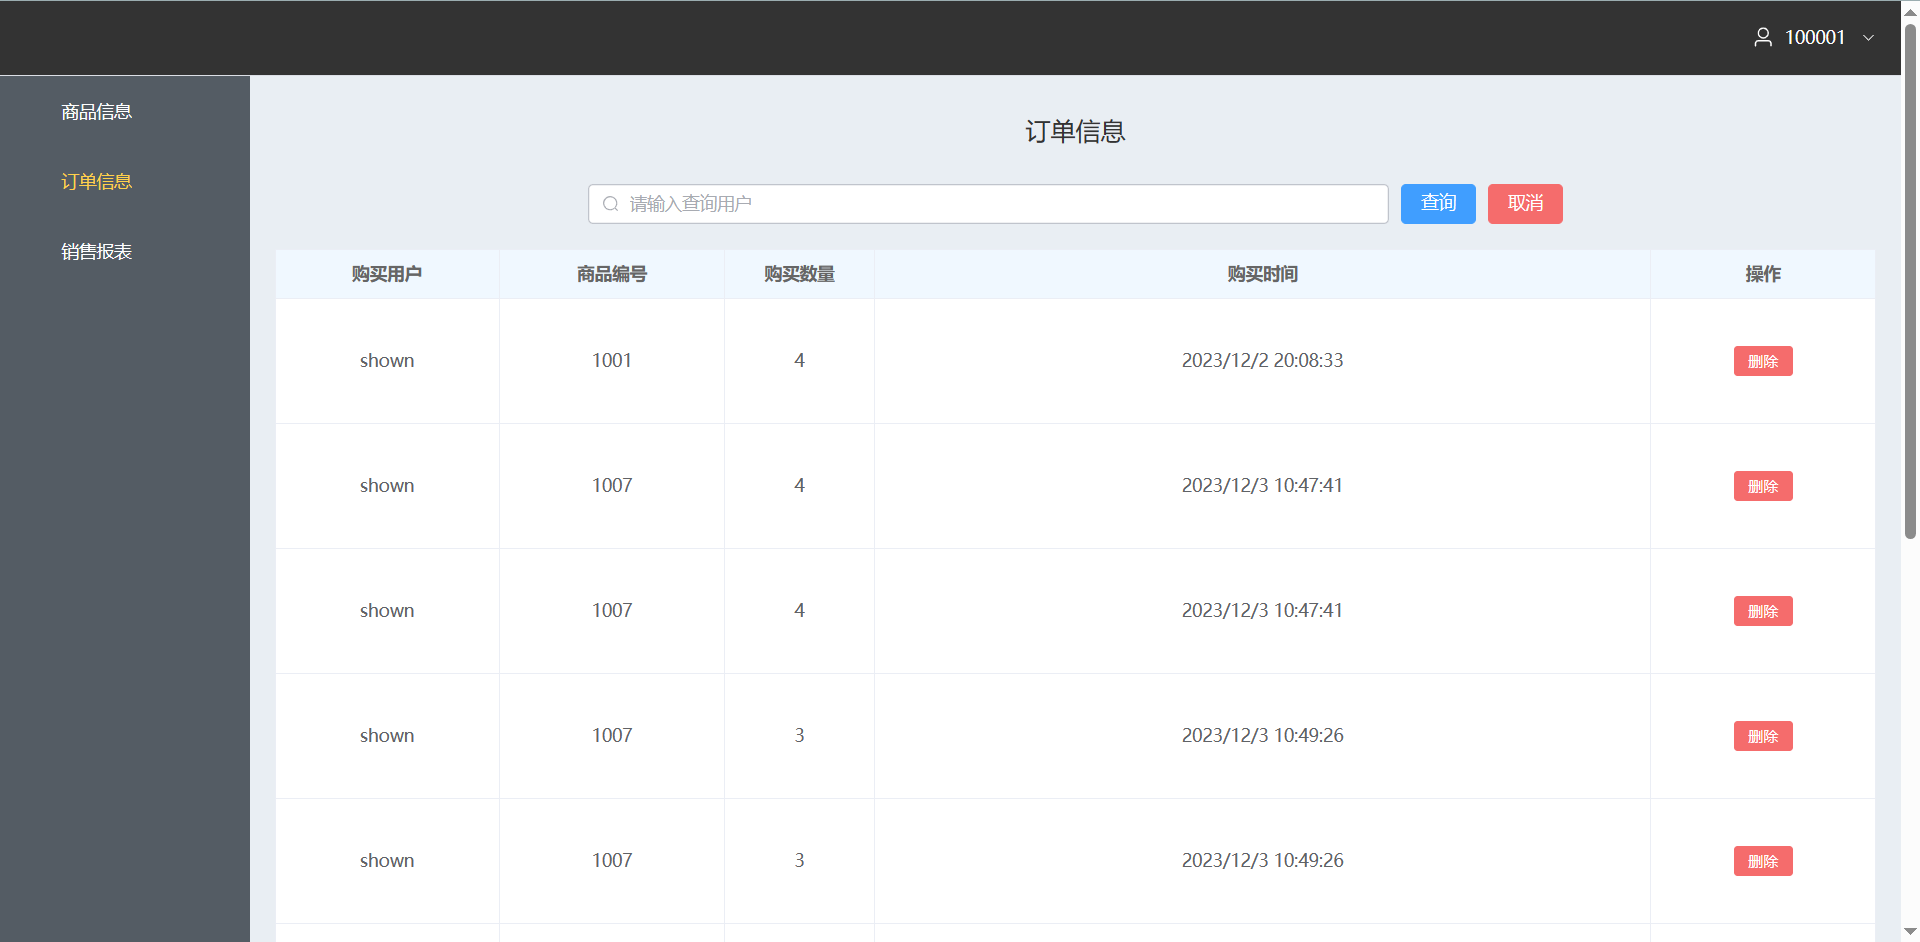
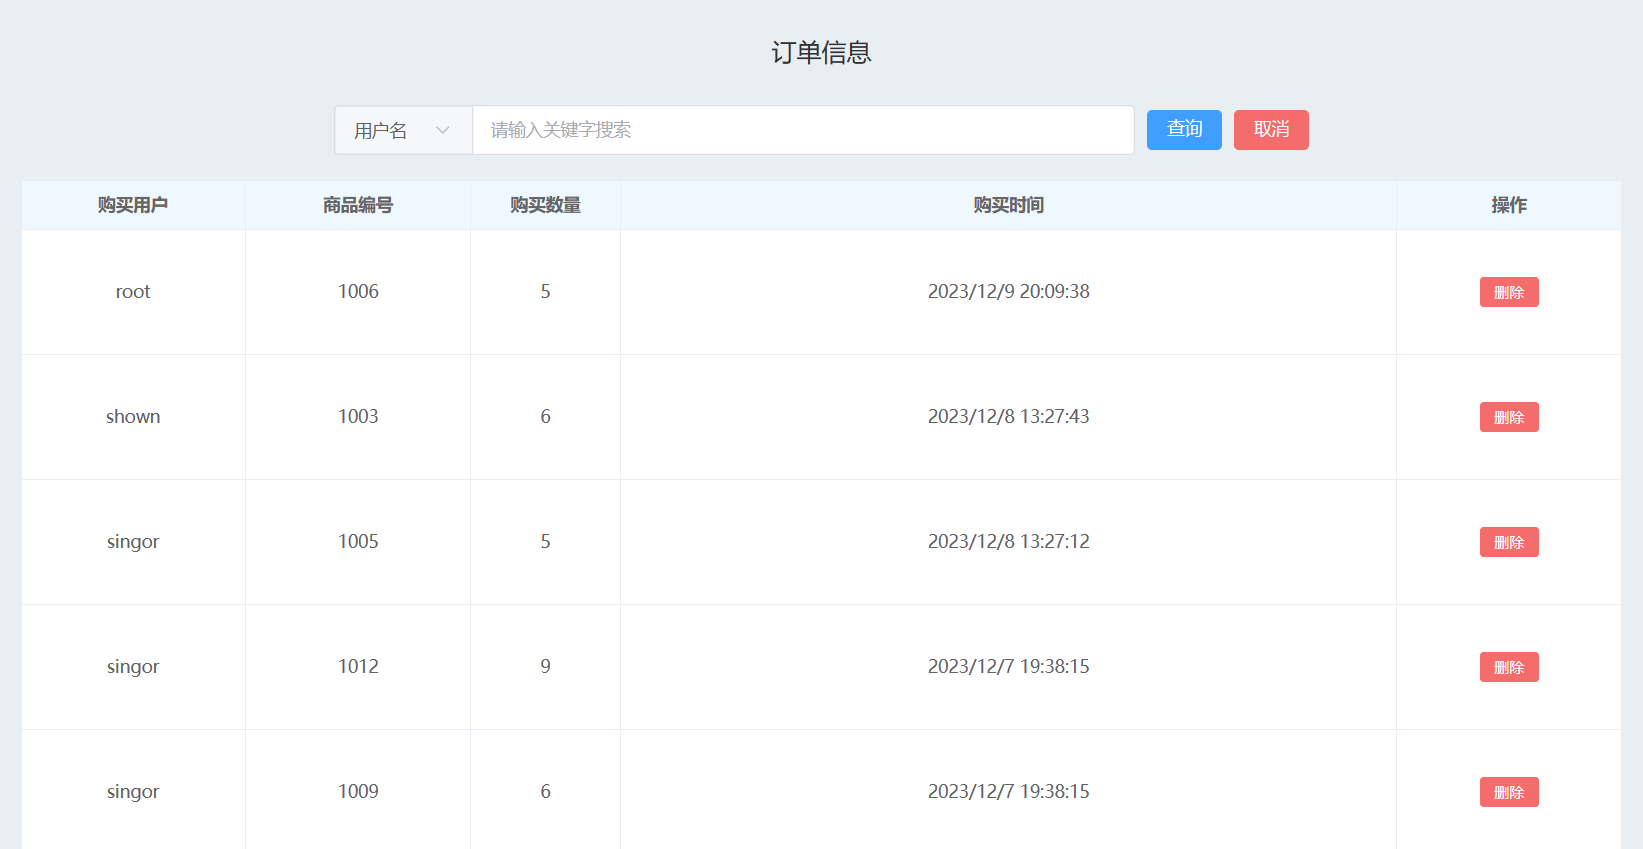
v2.0

diff --git a/vue3_sales/src/components/OrderList.vue b/vue3_sales/src/components/OrderList.vue
@@ -2,7 +2,14 @@
   <div>
     <p class="toptext">订单信息</p>
     <div class="searchinputdiv">
-      <el-input class="searchinput" :prefix-icon="Search" v-model="search" placeholder="请输入查询用户"></el-input>
+      <el-input class="searchinput" v-model="search" placeholder="请输入关键字搜索" size="large">
+        <template #prepend>
+          <el-select v-model="searchflag" style="width: 110px" placeholder="请选择" size="large">
+            <el-option label="用户名" value="0"></el-option>
+            <el-option label="商品编号" value="1"></el-option>
+          </el-select>
+        </template>
+      </el-input>
       <el-button class="searchbtn" type="primary" @click="select">查询</el-button>
       <el-button class="searchbtn" type="danger" @click="cancel">取消</el-button>
     </div>
@@ -62,6 +69,8 @@ var tableData=ref([])
 var tableShow=ref([])
 //存储原始的时间戳
 var tableTime=ref([])
+//搜索的类别
+var searchflag=ref("0");
 
 // 点击分页组件会返回页码， 根据页码更新dataShow数据(显示的项目)
 const handleCurrentChange=(val)=>{
@@ -140,9 +149,18 @@ const selectsalesorder=()=>{
 
 const select=()=>{
   tableRef.value.clearFilter();
-  tableShow.value=tableData.value.filter(data => {
-    return (!search.value || data.username.toString().toLowerCase().includes(search.value.toLowerCase()))
-  })
+  if(searchflag.value==="0")
+  {
+    tableShow.value=tableData.value.filter(data => {
+      return (!search.value || data.username.toString().toLowerCase().includes(search.value.toLowerCase()))
+    })
+  }
+  else
+  {
+    tableShow.value=tableData.value.filter(data => {
+      return (!search.value || data.goodsid.toString().toLowerCase().includes(search.value.toLowerCase()))
+    })
+  }
   tabletotal.value=tableShow.value.length
 }
 

diff --git a/vue3_manager/src/components/OrderList.vue b/vue3_manager/src/components/OrderList.vue
@@ -2,7 +2,14 @@
   <div>
     <p class="toptext">订单信息</p>
     <div class="searchinputdiv">
-      <el-input class="searchinput" :prefix-icon="Search" v-model="search" placeholder="请输入查询用户"></el-input>
+      <el-input class="searchinput" v-model="search" placeholder="请输入关键字搜索" size="large">
+        <template #prepend>
+          <el-select v-model="searchflag" style="width: 110px" placeholder="请选择" size="large">
+            <el-option label="用户名" value="0"></el-option>
+            <el-option label="商品编号" value="1"></el-option>
+          </el-select>
+        </template>
+      </el-input>
       <el-button class="searchbtn" type="primary" @click="select">查询</el-button>
       <el-button class="searchbtn" type="danger" @click="cancel">取消</el-button>
     </div>
@@ -62,6 +69,8 @@ var tableData=ref([])
 var tableShow=ref([])
 //存储原始的时间戳
 var tableTime=ref([])
+//搜索的类别
+var searchflag=ref("0");
 
 // 点击分页组件会返回页码， 根据页码更新dataShow数据(显示的项目)
 const handleCurrentChange=(val)=>{
@@ -139,9 +148,18 @@ const selectallorder=()=>{
 
 const select=()=>{
   tableRef.value.clearFilter();
-  tableShow.value=tableData.value.filter(data => {
-    return (!search.value || data.username.toString().toLowerCase().includes(search.value.toLowerCase()))
-  })
+  if(searchflag.value==="0")
+  {
+    tableShow.value=tableData.value.filter(data => {
+      return (!search.value || data.username.toString().toLowerCase().includes(search.value.toLowerCase()))
+    })
+  }
+  else
+  {
+    tableShow.value=tableData.value.filter(data => {
+      return (!search.value || data.goodsid.toString().toLowerCase().includes(search.value.toLowerCase()))
+    })
+  }
   tabletotal.value=tableShow.value.length
 }
 

diff --git a/vue3_project/src/views/ShopcartView.vue b/vue3_project/src/views/ShopcartView.vue
@@ -12,7 +12,7 @@
       <el-table-column type="index" label="序号" width="80" align="center"></el-table-column>
       <el-table-column prop="img" label="图片" align="center">
         <template #default="scope">
-          <img :src=getImageUrl(scope.row.img) height="200"/>
+          <img :src="$baseUrl+`/download/${scope.row.img}`" height="200"/>
         </template>
       </el-table-column>
       <el-table-column property="name" label="类目" width="180" align="center"></el-table-column>
@@ -71,10 +71,6 @@ const handleDelete=(index)=> {
   tableData.value.splice(index, 1); //删除表格的数据
   localStorage.removeItem("goods")
   localStorage.setItem("goods", JSON.stringify(tableData.value))
-}
-
-const getImageUrl = (name) => {
-  return new URL(name, import.meta.url).href
 }
 
 //返回上级页面
